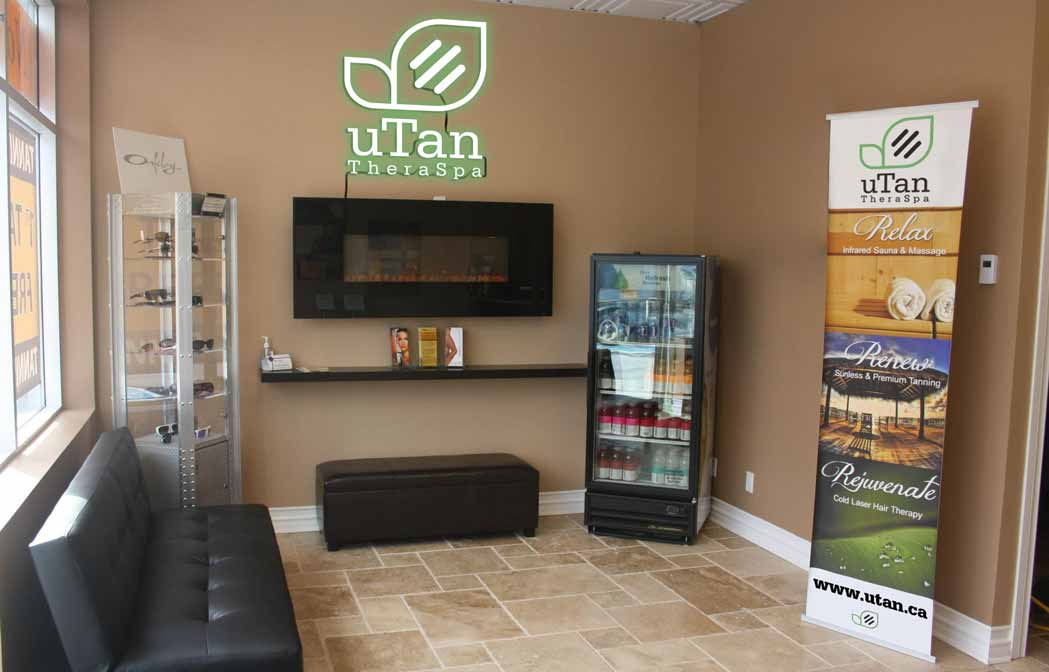
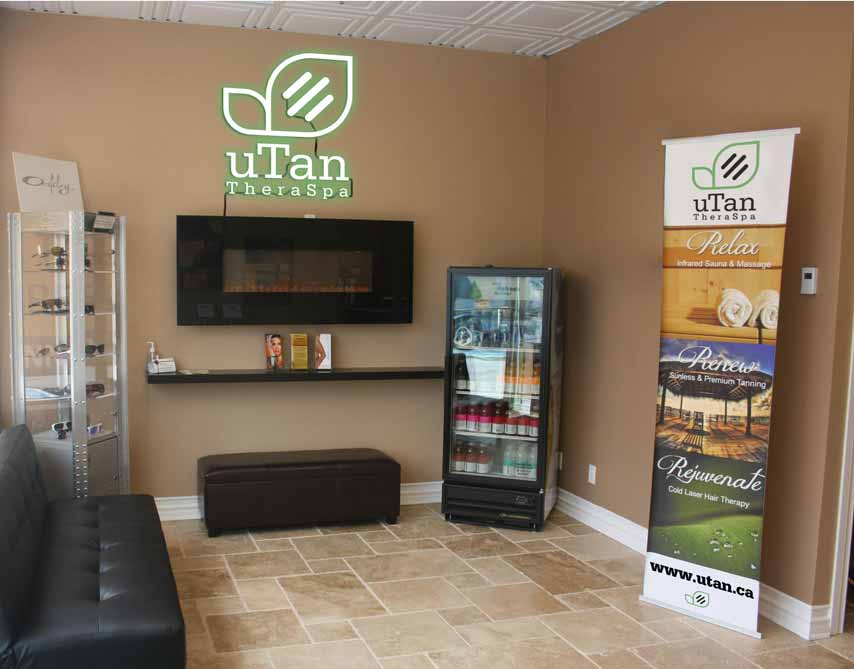
adding mockups to utan

diff --git a/utan.html b/utan.html
@@ -29,9 +29,9 @@ layout: default
       <div>
         <img class="mockup" src="{{site.baseurl}}/images/utan/compare.jpg" alt="">
         <img class="mockup" src="{{site.baseurl}}/images/utan/utanlogo.jpg" alt="">
+        <img class="mockup" src="{{site.baseurl}}/images/utan/mockups.jpg" alt="">
         <img class="mockup" src="{{site.baseurl}}/images/utan/neon.jpg" alt="">
-        <img class="mockup" src="{{site.baseurl}}/images/utan/n.jpg" alt="">
-        <img class="mockup" src="{{site.baseurl}}/images/utan/a.jpg" alt="">
+        <img class="mockup" src="{{site.baseurl}}/images/utan/store.jpg" alt="">
       </div>
 
     </div>
